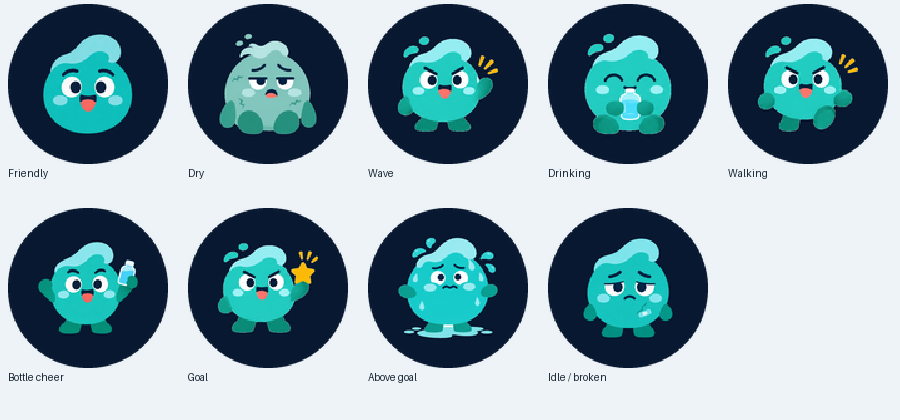
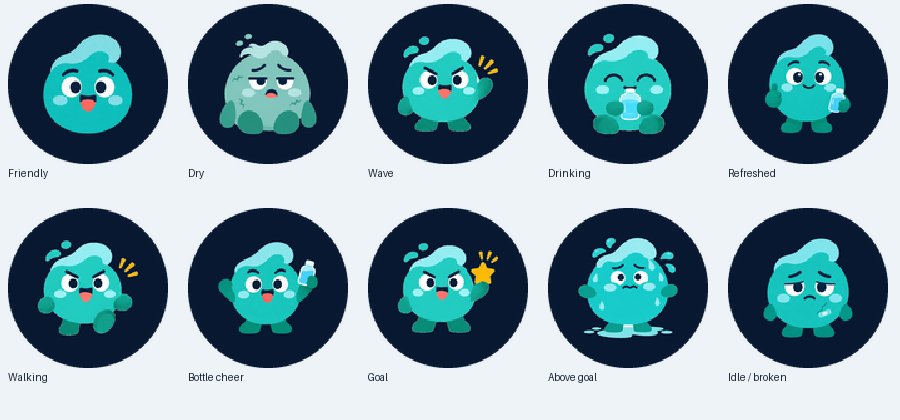
Add refreshed water mascot state

diff --git a/app/src/main/java/com/kismat/path/WaterScreen.kt b/app/src/main/java/com/kismat/path/WaterScreen.kt
@@ -129,7 +129,8 @@ internal fun WaterScreen(
         rawProgress > 1f -> MascotPose.OVERFULL
         rawProgress >= 1f -> MascotPose.STAR
         rawProgress < .2f -> MascotPose.DEHYDRATED
-        rawProgress < .8f -> MascotPose.DRINKING
+        rawProgress < .45f -> MascotPose.DRINKING
+        rawProgress < .8f -> MascotPose.REFRESHED
         else -> MascotPose.BOTTLE_CHEER
     }
     val nextReminder = when {
@@ -174,6 +175,7 @@ internal fun WaterScreen(
                                         MascotPose.OVERFULL -> "Wello is splashing above the chosen daily water goal."
                                         MascotPose.STAR -> "Wello celebrates reaching the water goal."
                                         MascotPose.DRINKING -> "Wello drinks water and looks refreshed."
+                                        MascotPose.REFRESHED -> "Wello feels refreshed after a drink and gives you a thumbs-up."
                                         MascotPose.CELEBRATE -> "Wello celebrates progress toward the water goal."
                                         MascotPose.BOTTLE_CHEER -> "Wello cheers while holding up a water bottle, nearly at the daily goal."
                                         else -> "Wello greets you as you make progress on your water goal."

diff --git a/app/src/main/java/com/kismat/path/MascotIconController.kt b/app/src/main/java/com/kismat/path/MascotIconController.kt
@@ -21,6 +21,7 @@ internal enum class MascotAppIcon(val launcherAlias: String, val image: Int) {
     DRY("LauncherDry", R.drawable.mascot_dry),
     WAVING("LauncherWaving", R.drawable.mascot_wave),
     DRINKING("LauncherDrinking", R.drawable.mascot_drink),
+    REFRESHED("LauncherRefreshed", R.drawable.mascot_refreshed),
     WALKING("LauncherWalking", R.drawable.mascot_walk),
     BOTTLE_CHEER("LauncherCheering", R.drawable.mascot_bottle_cheer),
     GOAL("LauncherGoal", R.drawable.mascot_star),
@@ -169,7 +170,8 @@ internal object MascotIconController {
             progress > 1f -> MascotAppIcon.OVERFULL
             progress >= 1f -> MascotAppIcon.GOAL
             progress < .2f -> MascotAppIcon.DRY
-            progress < .8f -> MascotAppIcon.DRINKING
+            progress < .45f -> MascotAppIcon.DRINKING
+            progress < .8f -> MascotAppIcon.REFRESHED
             else -> MascotAppIcon.BOTTLE_CHEER
         }
     }

diff --git a/app/src/main/java/com/kismat/path/MascotSprite.kt b/app/src/main/java/com/kismat/path/MascotSprite.kt
@@ -13,6 +13,7 @@ internal enum class MascotPose(val image: Int, val scale: Float = 1f) {
     WAVE_HELLO(R.drawable.mascot_wave),
     WALKING(R.drawable.mascot_walk),
     DRINKING(R.drawable.mascot_drink, 0.94f),
+    REFRESHED(R.drawable.mascot_refreshed),
     CELEBRATE(R.drawable.mascot_celebrate),
     BOTTLE_CHEER(R.drawable.mascot_bottle_cheer),
     TIRED(R.drawable.mascot_tired),
